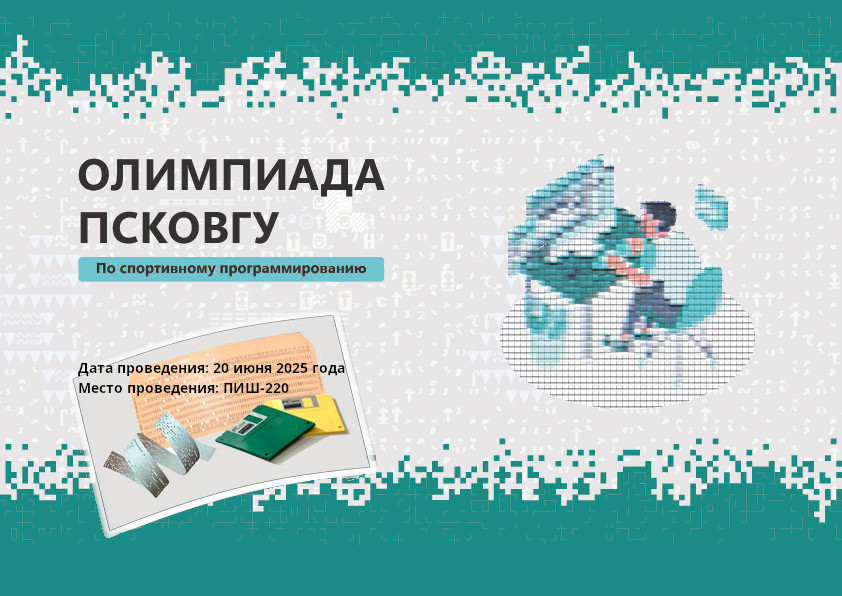
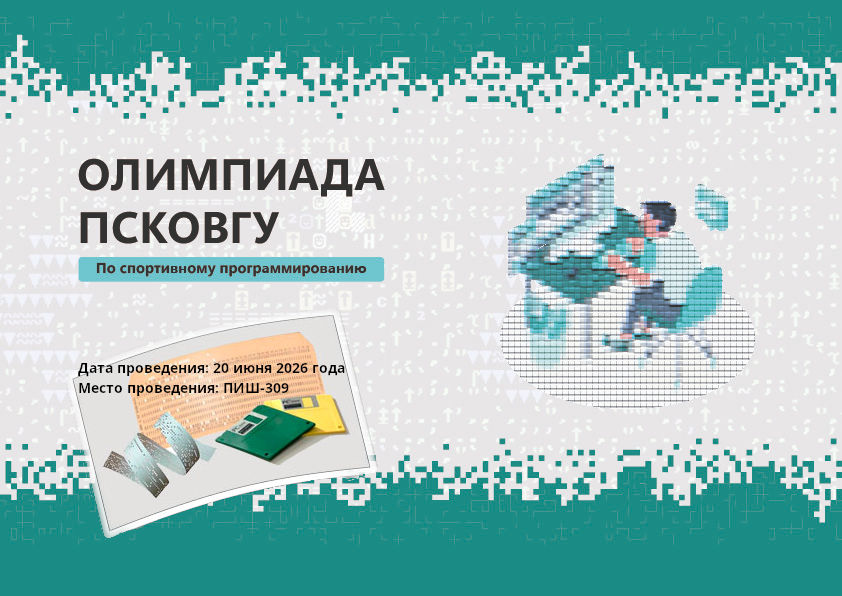
Олимпиада 2026 (обновление информации)

Changed region(s): [[0.3397, 0.604, 0.3705, 0.6342], [0.3397, 0.453, 0.3705, 0.4832], [0.3088, 0.6342, 0.3397, 0.6644]]

diff --git a/pskov/index.html b/pskov/index.html
@@ -32,7 +32,7 @@ section: pskov
                 </p>
                 <p>
                     <strong>Место проведения:</strong>
-                    ауд. ПИШ-220
+                    ауд. ПИШ-309
                 </p>
                 <p>
                     <strong>Время проведения:</strong>
